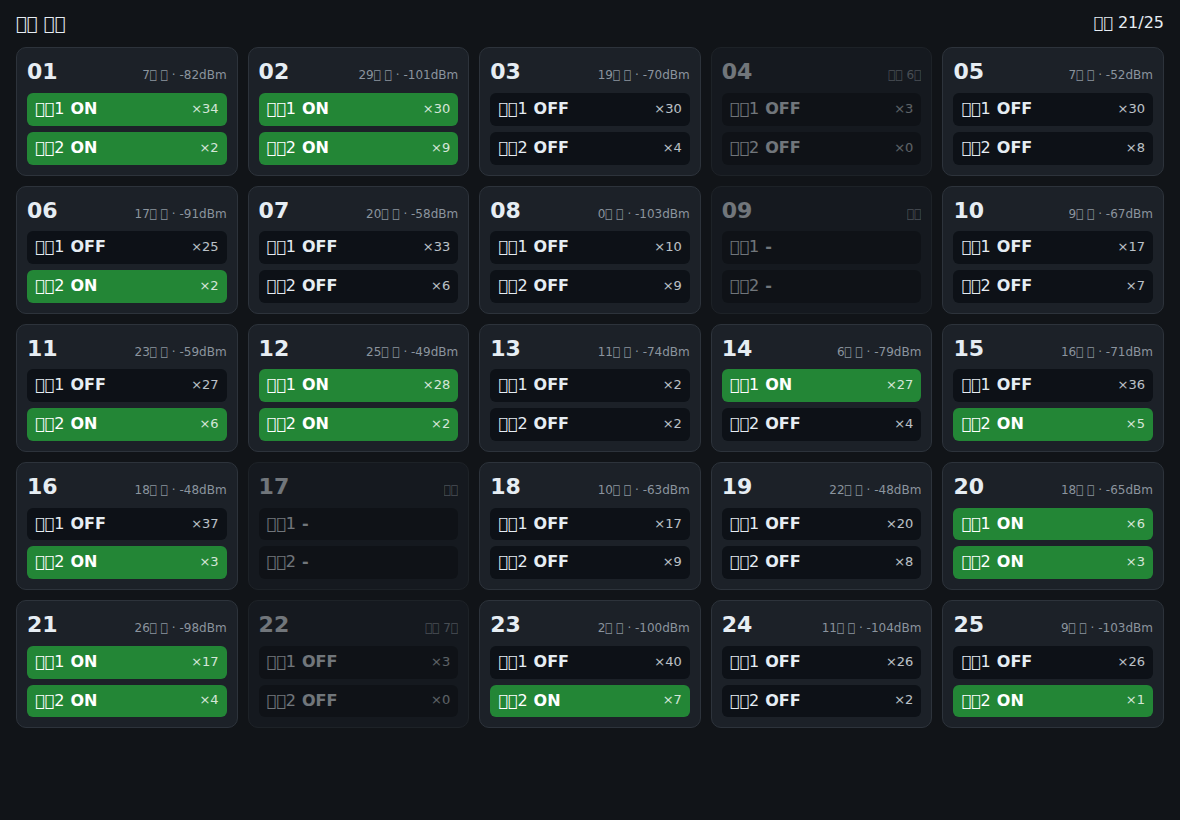
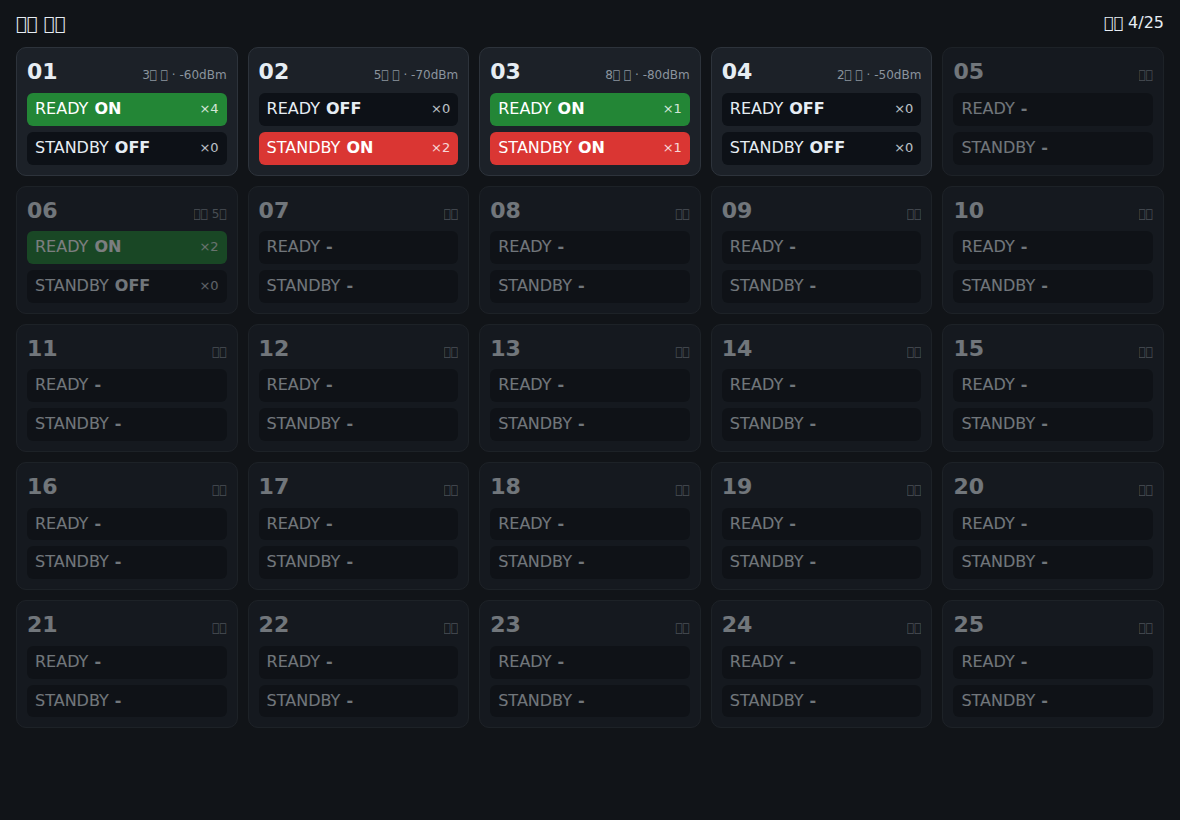
USB 앱(Web Serial) 추가, 접점 표시를 READY(초록)·STANDBY(빨강)로
- 수신기가 USB 로 1초마다·수신 즉시 "S [...]" 상태 줄 출력 (웹 /s 와 같은 JSON)
- page.h 하나로 Wi-Fi(http) 폴링과 USB(Web Serial, 안드로이드 구버전은 WebUSB 폴리필) 모드 겸용
- 포트 연 뒤 DTR/RTS 를 내려 리셋 시 다운로드 모드로 멈추는 것 방지
- tools/export_web.py: page.h → web/index.html 사본 추출
- 실기기: 송신 1번 ↔ 수신기 링크·접점 입력 전달, 사무실 PC 크롬에서 USB 앱 표시 확인

diff --git a/web/index.html b/web/index.html
@@ -1,0 +1,107 @@
+<!doctype html>
+<html lang="ko"><head><meta charset="utf-8">
+<meta name="viewport" content="width=device-width,initial-scale=1">
+<title>접점 상태</title>
+<style>
+:root{color-scheme:dark;--bg:#111418;--tile:#1c2128;--line:#2d333b;--fg:#e6edf3;--mut:#8b949e;--on:#238636;--stb:#da3633;--warn:#d29922;--btn:#1f6feb}
+body{margin:0;background:var(--bg);color:var(--fg);font:16px/1.3 system-ui,sans-serif}
+header{display:flex;justify-content:space-between;align-items:center;gap:12px;padding:12px 16px}
+h1{font-size:18px;margin:0}
+.r{display:flex;align-items:center;gap:10px}
+button{font:inherit;color:#fff;background:var(--btn);border:0;border-radius:8px;padding:8px 14px;cursor:pointer}
+#g{display:grid;grid-template-columns:repeat(5,1fr);gap:10px;padding:0 16px 16px}
+@media (max-width:700px){#g{grid-template-columns:repeat(3,1fr)}}
+.t{background:var(--tile);border:1px solid var(--line);border-radius:10px;padding:10px;min-width:0}
+.t.off{opacity:.45}
+.h{display:flex;justify-content:space-between;align-items:baseline;gap:6px}
+.h b{font-size:22px}
+.m{color:var(--mut);font-size:12px;white-space:nowrap;overflow:hidden;text-overflow:ellipsis}
+.p{display:flex;gap:6px;align-items:center;margin-top:6px;padding:6px 8px;border-radius:6px;background:#0d1117}
+.p.on{color:#fff}
+.p1.on{background:var(--on)}
+.p2.on{background:var(--stb)}
+.v{font-weight:700}
+.c{margin-left:auto;font-size:13px;opacity:.8}
+#st.bad{color:var(--warn)}
+</style></head><body>
+<header><h1>접점 상태</h1><div class="r"><span id="st">연결 중…</span><button id="cn" hidden>USB 연결</button></div></header>
+<main id="g"></main>
+<script>
+const N=25,OFF=75,g=document.getElementById('g'),st=document.getElementById('st'),cn=document.getElementById('cn'),tiles=[];
+for(let i=1;i<=N;i++){
+  const t=document.createElement('div');t.className='t off';
+  t.innerHTML=`<div class="h"><b>${String(i).padStart(2,'0')}</b><span class="m">대기</span></div>`+
+    [1,2].map(k=>`<div class="p p${k}"><span>${k==1?'READY':'STANDBY'}</span><span class="v">-</span><span class="c"></span></div>`).join('');  // 접점1 = READY(초록), 접점2 = STANDBY(빨강)
+  g.append(t);tiles.push(t);
+}
+const ago=s=>s<60?s+'초':s<3600?Math.floor(s/60)+'분':Math.floor(s/3600)+'시간';
+const say=(txt,bad)=>{st.textContent=txt;st.className=bad?'bad':''};
+let last=0;
+function render(d){  // d = [null | {a,b,c1,c2,r}] × 25
+  let on=0;last=Date.now();
+  d.forEach((n,i)=>{
+    const t=tiles[i],live=!!n&&n.a<OFF;on+=live;
+    t.classList.toggle('off',!live);
+    t.querySelector('.m').textContent=!n?'대기':live?`${n.a}초 전 · ${n.r}dBm`:`끊김 ${ago(n.a)}`;
+    t.querySelectorAll('.p').forEach((p,k)=>{
+      const c=!!n&&(n.b>>k&1)===1;
+      p.classList.toggle('on',c);
+      p.querySelector('.v').textContent=!n?'-':c?'ON':'OFF';
+      p.querySelector('.c').textContent=n?'×'+n['c'+(k+1)]:'';
+    });
+  });
+  say(`연결 ${on}/${N}`);
+}
+
+// ---- Wi-Fi: 수신기가 이 페이지를 직접 줄 때 ----
+async function poll(){
+  try{render(await (await fetch('/s',{cache:'no-store'})).json())}catch(e){say('수신기 연결 끊김',true)}
+  setTimeout(poll,300);
+}
+
+// ---- USB: Web Serial (안드로이드 구버전은 WebUSB 폴리필) ----
+const open=new Set();
+async function serialApi(){
+  if(navigator.serial)return navigator.serial;
+  if(navigator.usb)return (await import('https://cdn.jsdelivr.net/npm/web-serial-polyfill@1.0.15/+esm')).serial;
+  return null;
+}
+async function run(port){
+  if(open.has(port))return;
+  open.add(port);
+  try{
+    await port.open({baudRate:115200});
+    await port.setSignals({dataTerminalReady:false,requestToSend:false});  // DTR 이 켜진 채 리셋되면 다운로드 모드로 멈춘다
+    const reader=port.readable.pipeThrough(new TextDecoderStream()).getReader();
+    let buf='';
+    for(;;){
+      const {value,done}=await reader.read();
+      if(done)break;
+      buf+=value;
+      let i;
+      while((i=buf.indexOf('\n'))>=0){
+        const line=buf.slice(0,i).trim();buf=buf.slice(i+1);
+        if(line.startsWith('S ['))try{render(JSON.parse(line.slice(2)))}catch(e){}
+      }
+      if(buf.length>8192)buf='';
+    }
+  }catch(e){}
+  try{await port.close()}catch(e){}
+  open.delete(port);
+  if(!open.size){say('USB 끊김 — 다시 꽂거나 [USB 연결]',true);cn.hidden=false}
+}
+async function usb(){
+  const api=await serialApi();
+  if(!api){say('이 브라우저는 USB 시리얼을 지원하지 않습니다 (PC 크롬·엣지, 안드로이드 크롬)',true);return}
+  cn.hidden=false;
+  cn.onclick=async()=>{try{run(await api.requestPort({filters:[{usbVendorId:0x303a}]}))}catch(e){}};
+  const ports=api.getPorts?await api.getPorts():[];
+  ports.forEach(run);  // 전에 허락한 포트는 바로 연결 (S 줄을 주는 포트가 수신기)
+  if(ports.length)cn.hidden=true;
+  api.addEventListener?.('connect',e=>run(e.target||e.port));
+  say(ports.length?'USB 연결 중…':'[USB 연결]을 눌러 수신기를 고르세요',!ports.length);
+  setInterval(()=>{if(open.size&&last&&Date.now()-last>3000)say('수신기 응답 없음',true)},1000);
+}
+
+location.protocol==='http:'?poll():usb();
+</script></body></html>

diff --git a/page.h b/page.h
@@ -1,14 +1,19 @@
 #pragma once
-// 수신기가 태블릿에 주는 상태 페이지. /s 를 300ms 마다 읽어 25칸을 제자리에서 갱신한다.
+// 접점 상태 페이지 — 한 파일로 두 가지 방식:
+//  · 수신기 Wi-Fi(http://192.168.4.1) 로 열면 /s 를 300ms 마다 읽는다.
+//  · 그 밖(https·파일)으로 열면 수신기 USB 를 Web Serial 로 열어 "S [...]" 줄을 받는다.
+// web/index.html 은 이 문자열을 tools/export_web.py 로 꺼낸 사본이다(직접 고치지 말 것).
 const char PAGE[] = R"html(<!doctype html>
 <html lang="ko"><head><meta charset="utf-8">
 <meta name="viewport" content="width=device-width,initial-scale=1">
 <title>접점 상태</title>
 <style>
-:root{color-scheme:dark;--bg:#111418;--tile:#1c2128;--line:#2d333b;--fg:#e6edf3;--mut:#8b949e;--on:#238636;--warn:#d29922}
+:root{color-scheme:dark;--bg:#111418;--tile:#1c2128;--line:#2d333b;--fg:#e6edf3;--mut:#8b949e;--on:#238636;--stb:#da3633;--warn:#d29922;--btn:#1f6feb}
 body{margin:0;background:var(--bg);color:var(--fg);font:16px/1.3 system-ui,sans-serif}
-header{display:flex;justify-content:space-between;align-items:center;padding:12px 16px}
+header{display:flex;justify-content:space-between;align-items:center;gap:12px;padding:12px 16px}
 h1{font-size:18px;margin:0}
+.r{display:flex;align-items:center;gap:10px}
+button{font:inherit;color:#fff;background:var(--btn);border:0;border-radius:8px;padding:8px 14px;cursor:pointer}
 #g{display:grid;grid-template-columns:repeat(5,1fr);gap:10px;padding:0 16px 16px}
 @media (max-width:700px){#g{grid-template-columns:repeat(3,1fr)}}
 .t{background:var(--tile);border:1px solid var(--line);border-radius:10px;padding:10px;min-width:0}
@@ -17,40 +22,91 @@ h1{font-size:18px;margin:0}
 .h b{font-size:22px}
 .m{color:var(--mut);font-size:12px;white-space:nowrap;overflow:hidden;text-overflow:ellipsis}
 .p{display:flex;gap:6px;align-items:center;margin-top:6px;padding:6px 8px;border-radius:6px;background:#0d1117}
-.p.on{background:var(--on);color:#fff}
+.p.on{color:#fff}
+.p1.on{background:var(--on)}
+.p2.on{background:var(--stb)}
 .v{font-weight:700}
 .c{margin-left:auto;font-size:13px;opacity:.8}
 #st.bad{color:var(--warn)}
 </style></head><body>
-<header><h1>접점 상태</h1><span id="st">연결 중…</span></header>
+<header><h1>접점 상태</h1><div class="r"><span id="st">연결 중…</span><button id="cn" hidden>USB 연결</button></div></header>
 <main id="g"></main>
 <script>
-const N=25,OFF=75,g=document.getElementById('g'),st=document.getElementById('st'),tiles=[];
+const N=25,OFF=75,g=document.getElementById('g'),st=document.getElementById('st'),cn=document.getElementById('cn'),tiles=[];
 for(let i=1;i<=N;i++){
   const t=document.createElement('div');t.className='t off';
   t.innerHTML=`<div class="h"><b>${String(i).padStart(2,'0')}</b><span class="m">대기</span></div>`+
-    [1,2].map(k=>`<div class="p"><span>접점${k}</span><span class="v">-</span><span class="c"></span></div>`).join('');
+    [1,2].map(k=>`<div class="p p${k}"><span>${k==1?'READY':'STANDBY'}</span><span class="v">-</span><span class="c"></span></div>`).join('');  // 접점1 = READY(초록), 접점2 = STANDBY(빨강)
   g.append(t);tiles.push(t);
 }
 const ago=s=>s<60?s+'초':s<3600?Math.floor(s/60)+'분':Math.floor(s/3600)+'시간';
-async function tick(){
-  try{
-    const d=await (await fetch('/s',{cache:'no-store'})).json();
-    let on=0;
-    d.forEach((n,i)=>{
-      const t=tiles[i],live=!!n&&n.a<OFF;on+=live;
-      t.classList.toggle('off',!live);
-      t.querySelector('.m').textContent=!n?'대기':live?`${n.a}초 전 · ${n.r}dBm`:`끊김 ${ago(n.a)}`;
-      t.querySelectorAll('.p').forEach((p,k)=>{
-        const c=!!n&&(n.b>>k&1)===1;
-        p.classList.toggle('on',c);
-        p.querySelector('.v').textContent=!n?'-':c?'ON':'OFF';
-        p.querySelector('.c').textContent=n?'×'+n['c'+(k+1)]:'';
-      });
+const say=(txt,bad)=>{st.textContent=txt;st.className=bad?'bad':''};
+let last=0;
+function render(d){  // d = [null | {a,b,c1,c2,r}] × 25
+  let on=0;last=Date.now();
+  d.forEach((n,i)=>{
+    const t=tiles[i],live=!!n&&n.a<OFF;on+=live;
+    t.classList.toggle('off',!live);
+    t.querySelector('.m').textContent=!n?'대기':live?`${n.a}초 전 · ${n.r}dBm`:`끊김 ${ago(n.a)}`;
+    t.querySelectorAll('.p').forEach((p,k)=>{
+      const c=!!n&&(n.b>>k&1)===1;
+      p.classList.toggle('on',c);
+      p.querySelector('.v').textContent=!n?'-':c?'ON':'OFF';
+      p.querySelector('.c').textContent=n?'×'+n['c'+(k+1)]:'';
     });
-    st.textContent=`연결 ${on}/${N}`;st.className='';
-  }catch(e){st.textContent='수신기 연결 끊김';st.className='bad'}
-  setTimeout(tick,300);
+  });
+  say(`연결 ${on}/${N}`);
 }
-tick();
+
+// ---- Wi-Fi: 수신기가 이 페이지를 직접 줄 때 ----
+async function poll(){
+  try{render(await (await fetch('/s',{cache:'no-store'})).json())}catch(e){say('수신기 연결 끊김',true)}
+  setTimeout(poll,300);
+}
+
+// ---- USB: Web Serial (안드로이드 구버전은 WebUSB 폴리필) ----
+const open=new Set();
+async function serialApi(){
+  if(navigator.serial)return navigator.serial;
+  if(navigator.usb)return (await import('https://cdn.jsdelivr.net/npm/web-serial-polyfill@1.0.15/+esm')).serial;
+  return null;
+}
+async function run(port){
+  if(open.has(port))return;
+  open.add(port);
+  try{
+    await port.open({baudRate:115200});
+    await port.setSignals({dataTerminalReady:false,requestToSend:false});  // DTR 이 켜진 채 리셋되면 다운로드 모드로 멈춘다
+    const reader=port.readable.pipeThrough(new TextDecoderStream()).getReader();
+    let buf='';
+    for(;;){
+      const {value,done}=await reader.read();
+      if(done)break;
+      buf+=value;
+      let i;
+      while((i=buf.indexOf('\n'))>=0){
+        const line=buf.slice(0,i).trim();buf=buf.slice(i+1);
+        if(line.startsWith('S ['))try{render(JSON.parse(line.slice(2)))}catch(e){}
+      }
+      if(buf.length>8192)buf='';
+    }
+  }catch(e){}
+  try{await port.close()}catch(e){}
+  open.delete(port);
+  if(!open.size){say('USB 끊김 — 다시 꽂거나 [USB 연결]',true);cn.hidden=false}
+}
+async function usb(){
+  const api=await serialApi();
+  if(!api){say('이 브라우저는 USB 시리얼을 지원하지 않습니다 (PC 크롬·엣지, 안드로이드 크롬)',true);return}
+  cn.hidden=false;
+  cn.onclick=async()=>{try{run(await api.requestPort({filters:[{usbVendorId:0x303a}]}))}catch(e){}};
+  const ports=api.getPorts?await api.getPorts():[];
+  ports.forEach(run);  // 전에 허락한 포트는 바로 연결 (S 줄을 주는 포트가 수신기)
+  if(ports.length)cn.hidden=true;
+  api.addEventListener?.('connect',e=>run(e.target||e.port));
+  say(ports.length?'USB 연결 중…':'[USB 연결]을 눌러 수신기를 고르세요',!ports.length);
+  setInterval(()=>{if(open.size&&last&&Date.now()-last>3000)say('수신기 응답 없음',true)},1000);
+}
+
+location.protocol==='http:'?poll():usb();
 </script></body></html>)html";

diff --git a/tools/export_web.py b/tools/export_web.py
@@ -1,0 +1,15 @@
+#!/usr/bin/env python3
+"""page.h 의 PAGE 문자열을 web/index.html 로 꺼낸다 (USB 앱 배포용 사본). page.h 를 고친 뒤 실행."""
+import pathlib
+import re
+
+root = pathlib.Path(__file__).resolve().parent.parent
+src = (root / "page.h").read_text(encoding="utf-8")
+m = re.search(r'R"html\((.*)\)html"', src, re.S)
+assert m, "page.h 에서 R\"html(...)html\" 를 찾지 못함"
+html = m.group(1)
+assert html.startswith("<!doctype html>") and html.rstrip().endswith("</html>"), "PAGE 가 완전한 HTML 이 아님"
+out = root / "web" / "index.html"
+out.parent.mkdir(exist_ok=True)
+out.write_text(html, encoding="utf-8")
+print(f"{out.relative_to(root)} ({len(html)} bytes)")

diff --git a/README.md b/README.md
@@ -44,17 +44,24 @@ M5Stack **Unit C6L** 26대로 만드는 접점 상태판입니다.
 - **수신기:** `GW` / `on 21/25` / `192.168.4.1`
 - `LoRa ERR` 는 무선 칩 초기화에 실패했다는 뜻입니다. 시리얼 115200 에서 `radio=<코드>` 를 확인합니다.
 
-## 태블릿
+## 태블릿·PC 화면
 
-수신기가 Wi-Fi AP 를 띄웁니다.
-
-1. 태블릿을 **`C6L-GW` / 비밀번호 `c6l-12345`** 에 연결합니다.
-2. 브라우저에서 **http://192.168.4.1** 을 엽니다. 홈 화면에 추가하면 앱처럼 쓸 수 있습니다.
-
-화면은 0.3초마다 갱신됩니다. 각 칸에는 다음이 표시됩니다.
-- 접점별 ON/OFF
+각 칸에는 다음이 표시됩니다.
+- 접점 1 = **READY**(켜지면 초록), 접점 2 = **STANDBY**(켜지면 빨강)
 - 닫힌 횟수(×N, 255 다음 0)
 - 마지막 수신 경과 시간과 RSSI
+
+화면을 보는 방법은 두 가지이고, 같은 페이지(`page.h`)를 씁니다.
+
+**1) USB 앱 (수신기를 USB 로 연결)**
+- `web/index.html` 을 https 주소나 PC 로컬 파일로 엽니다. 처음에 [USB 연결]을 눌러 수신기 포트를 고르면, 다음부터는 저절로 연결됩니다.
+- 수신기는 USB 로 1초마다, 그리고 패킷을 받을 때마다 `S [...]` 상태 줄을 보냅니다.
+- 지원 브라우저: PC 크롬·엣지, 안드로이드 크롬(Web Serial 은 148+·Android 17, 그보다 낮으면 WebUSB 폴리필). **iPad/Safari 는 안 됩니다.**
+- `page.h` 를 고친 뒤에는 `python3 tools/export_web.py` 로 `web/index.html` 을 다시 만듭니다.
+
+**2) Wi-Fi (수신기 AP)**
+1. 휴대폰이나 태블릿을 **`C6L-GW` / 비밀번호 `c6l-12345`** 에 연결합니다.
+2. 브라우저에서 **http://192.168.4.1** 을 엽니다(0.3초마다 갱신).
 
 75초 동안 소식이 없으면 칸이 흐려지고 `끊김` 으로 바뀝니다. SSID·비밀번호는 `c6l-contact-lora.ino` 맨 위에서 바꿉니다.
 
@@ -90,6 +97,10 @@ arduino-cli upload  --fqbn esp32:esp32:esp32c6:CDCOnBoot=cdc,PartitionScheme=no_
 - **RF 설정(TCXO 3.0V on DIO3, RF 스위치 = DIO2):** Stamp C6LoRa 회로도에서 가져왔습니다.
 - **안테나:** 동봉 LoRa 안테나는 868MHz 용입니다. 국내(920MHz 대)에서는 915~923MHz 안테나가 낫습니다.
 - **국내 규정:** 출력·LBT 조건은 현장에 쓰기 전에 다시 확인합니다.
+- **2대 연동 실기기 확인(2026-11-09):**
+  - 송신기 1번 `tx ok`/`link=ok`, 수신기 `rx id=1`(ACK 포함)
+  - 접점 입력이 `bits=1 c=1/2` 로 수신기까지 전달
+  - 사무실 PC 크롬에서 USB 앱으로 01번 READY ON 표시
 - **수신기 실기기 확인(2026-11-09, 2번째 모듈):**
   - 시리얼 `id 0` 으로 GW 로 설정하자 OLED 에 `GW` 가 표시됐습니다.
   - 첫 부팅에서 `radio=-2` 가 한 번 났지만, 이후 리셋 6번은 모두 `radio=0` 이었습니다. 그래서 초기화 재시도를 넣었습니다.
@@ -98,4 +109,4 @@ arduino-cli upload  --fqbn esp32:esp32:esp32c6:CDCOnBoot=cdc,PartitionScheme=no_
   - 부팅 로그 `radio=0`(IO 확장칩·SX1262·TCXO 3.0V·DIO2 RF 스위치 정상)
   - OLED(`U8G2_SSD1306_64X48_ER`) 표시
   - 버튼(P0)으로 ID 설정 → NVS 저장 → 재부팅 후 `id=1`
-- **미검증:** LoRa 송수신·ACK(2대 필요), 접점 입력, 수신기 Wi-Fi·태블릿 페이지, 25대가 동시에 바뀔 때의 전달 시간.
+- **미검증:** 수신기 Wi-Fi AP·192.168.4.1 페이지, 안드로이드 태블릿(Web Serial·WebUSB), 25대가 동시에 바뀔 때의 전달 시간.
